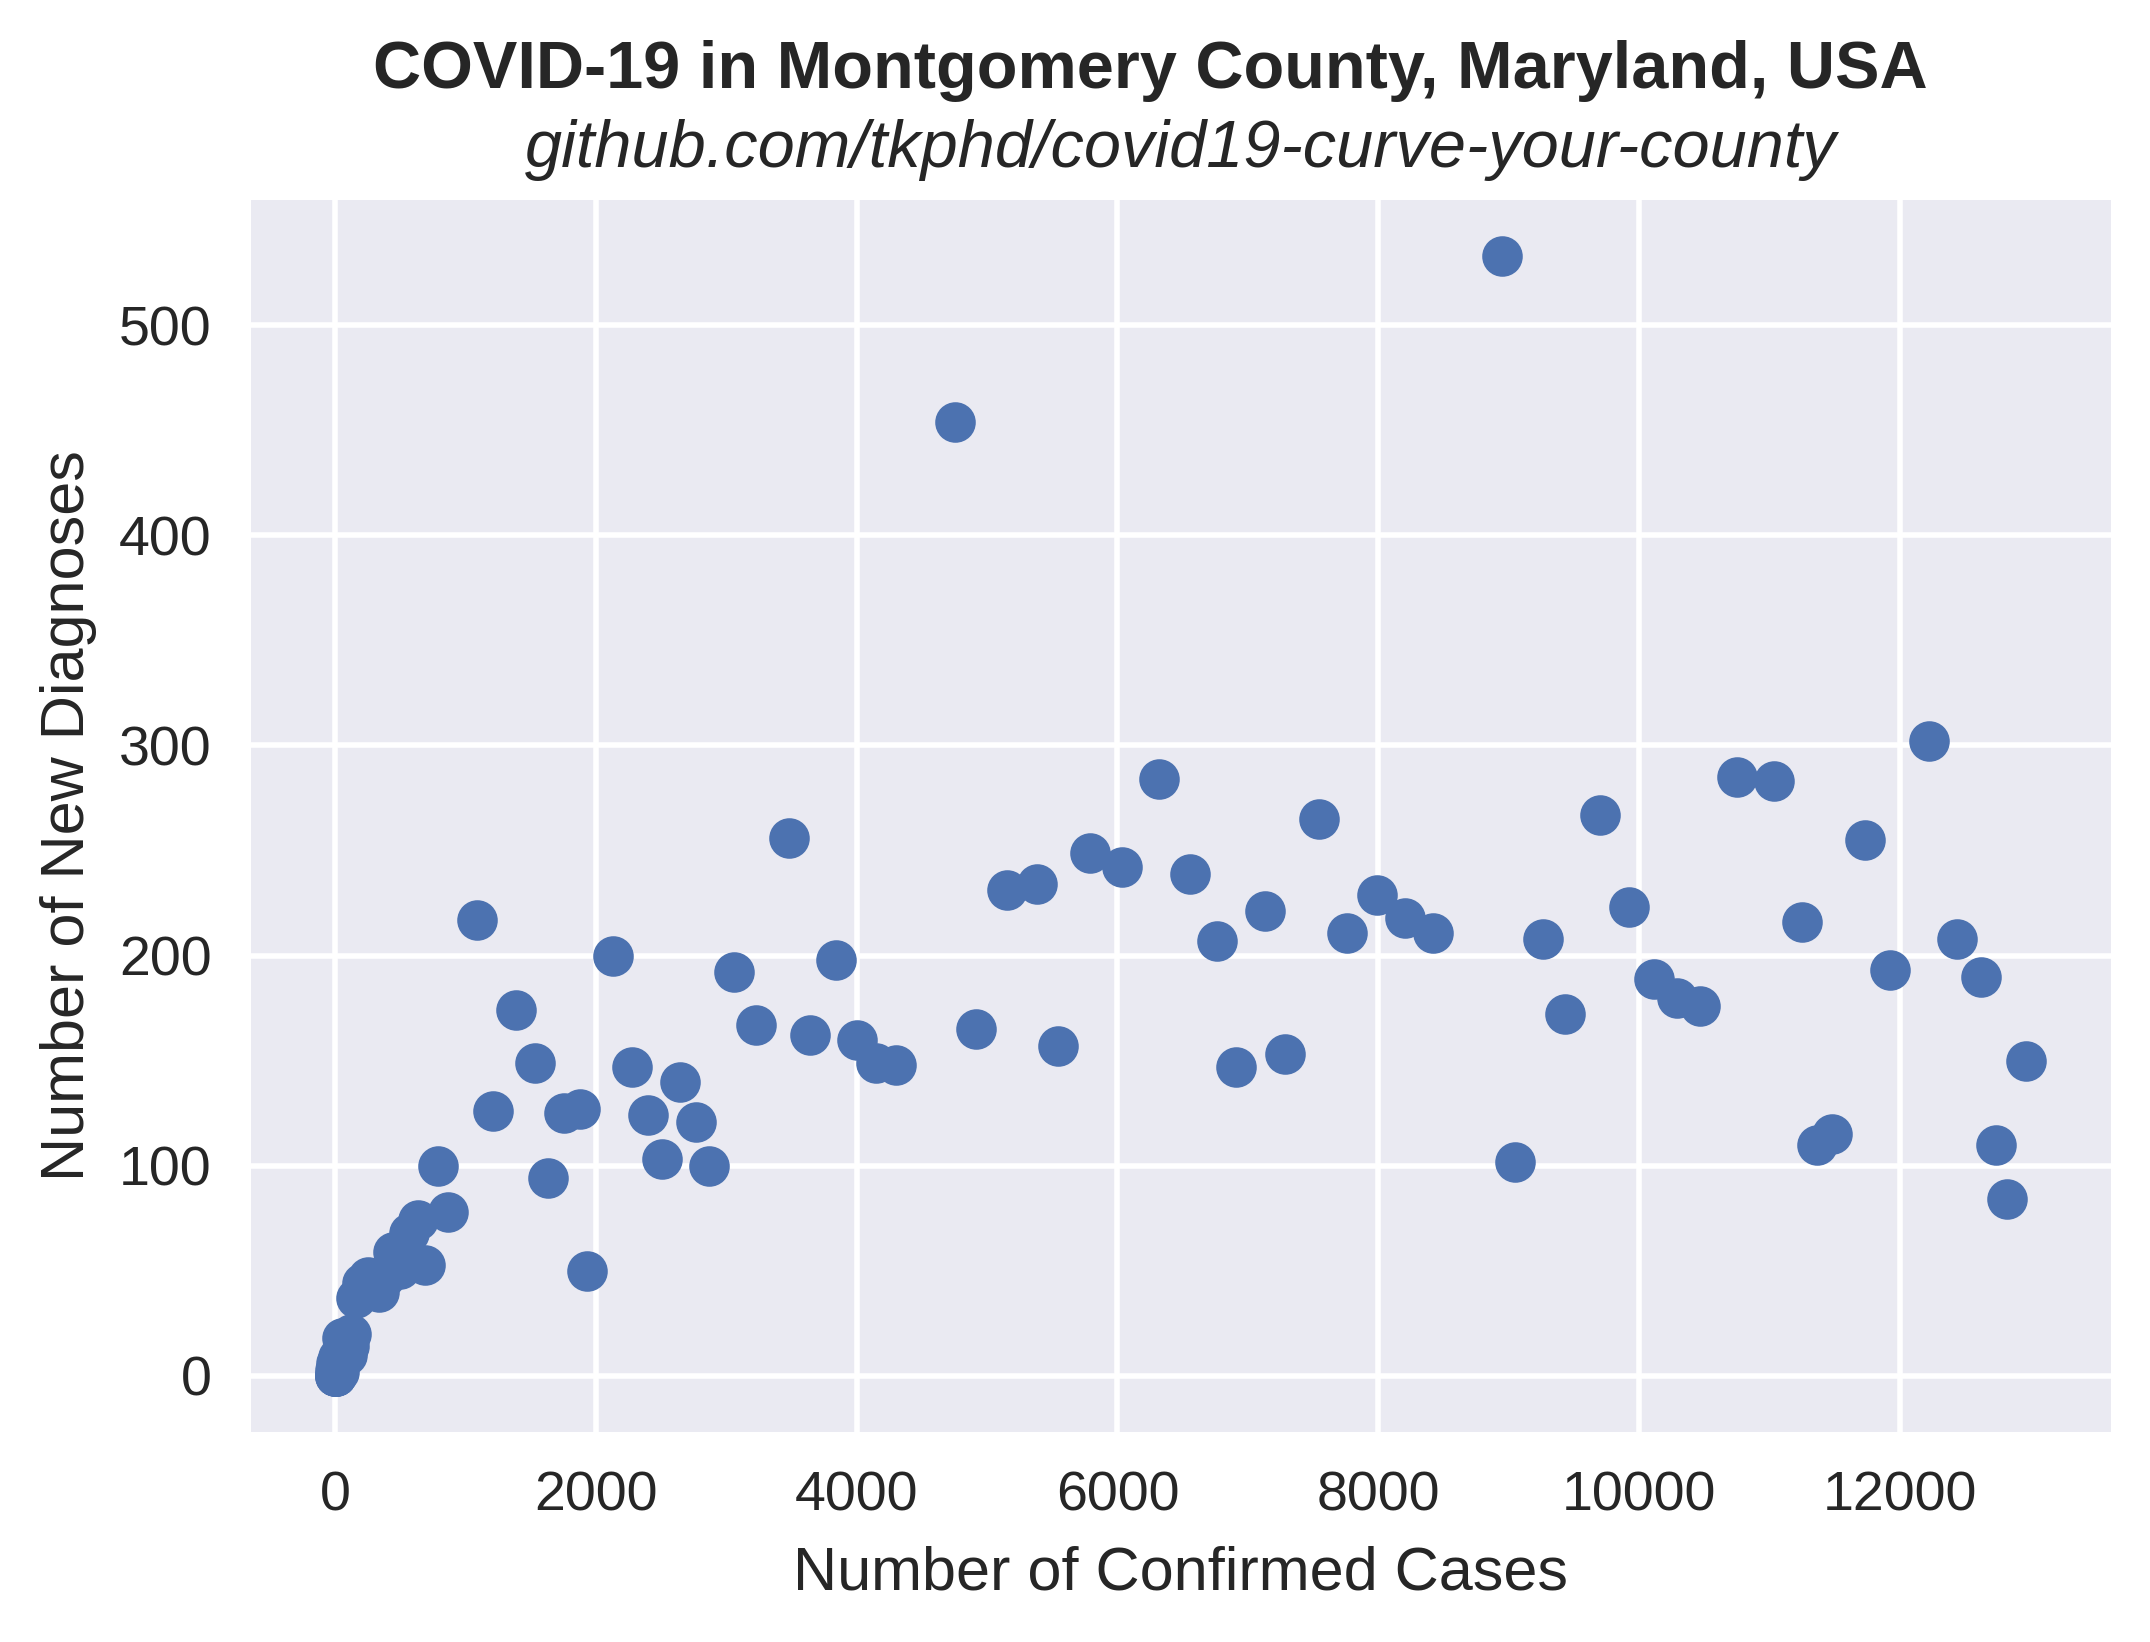
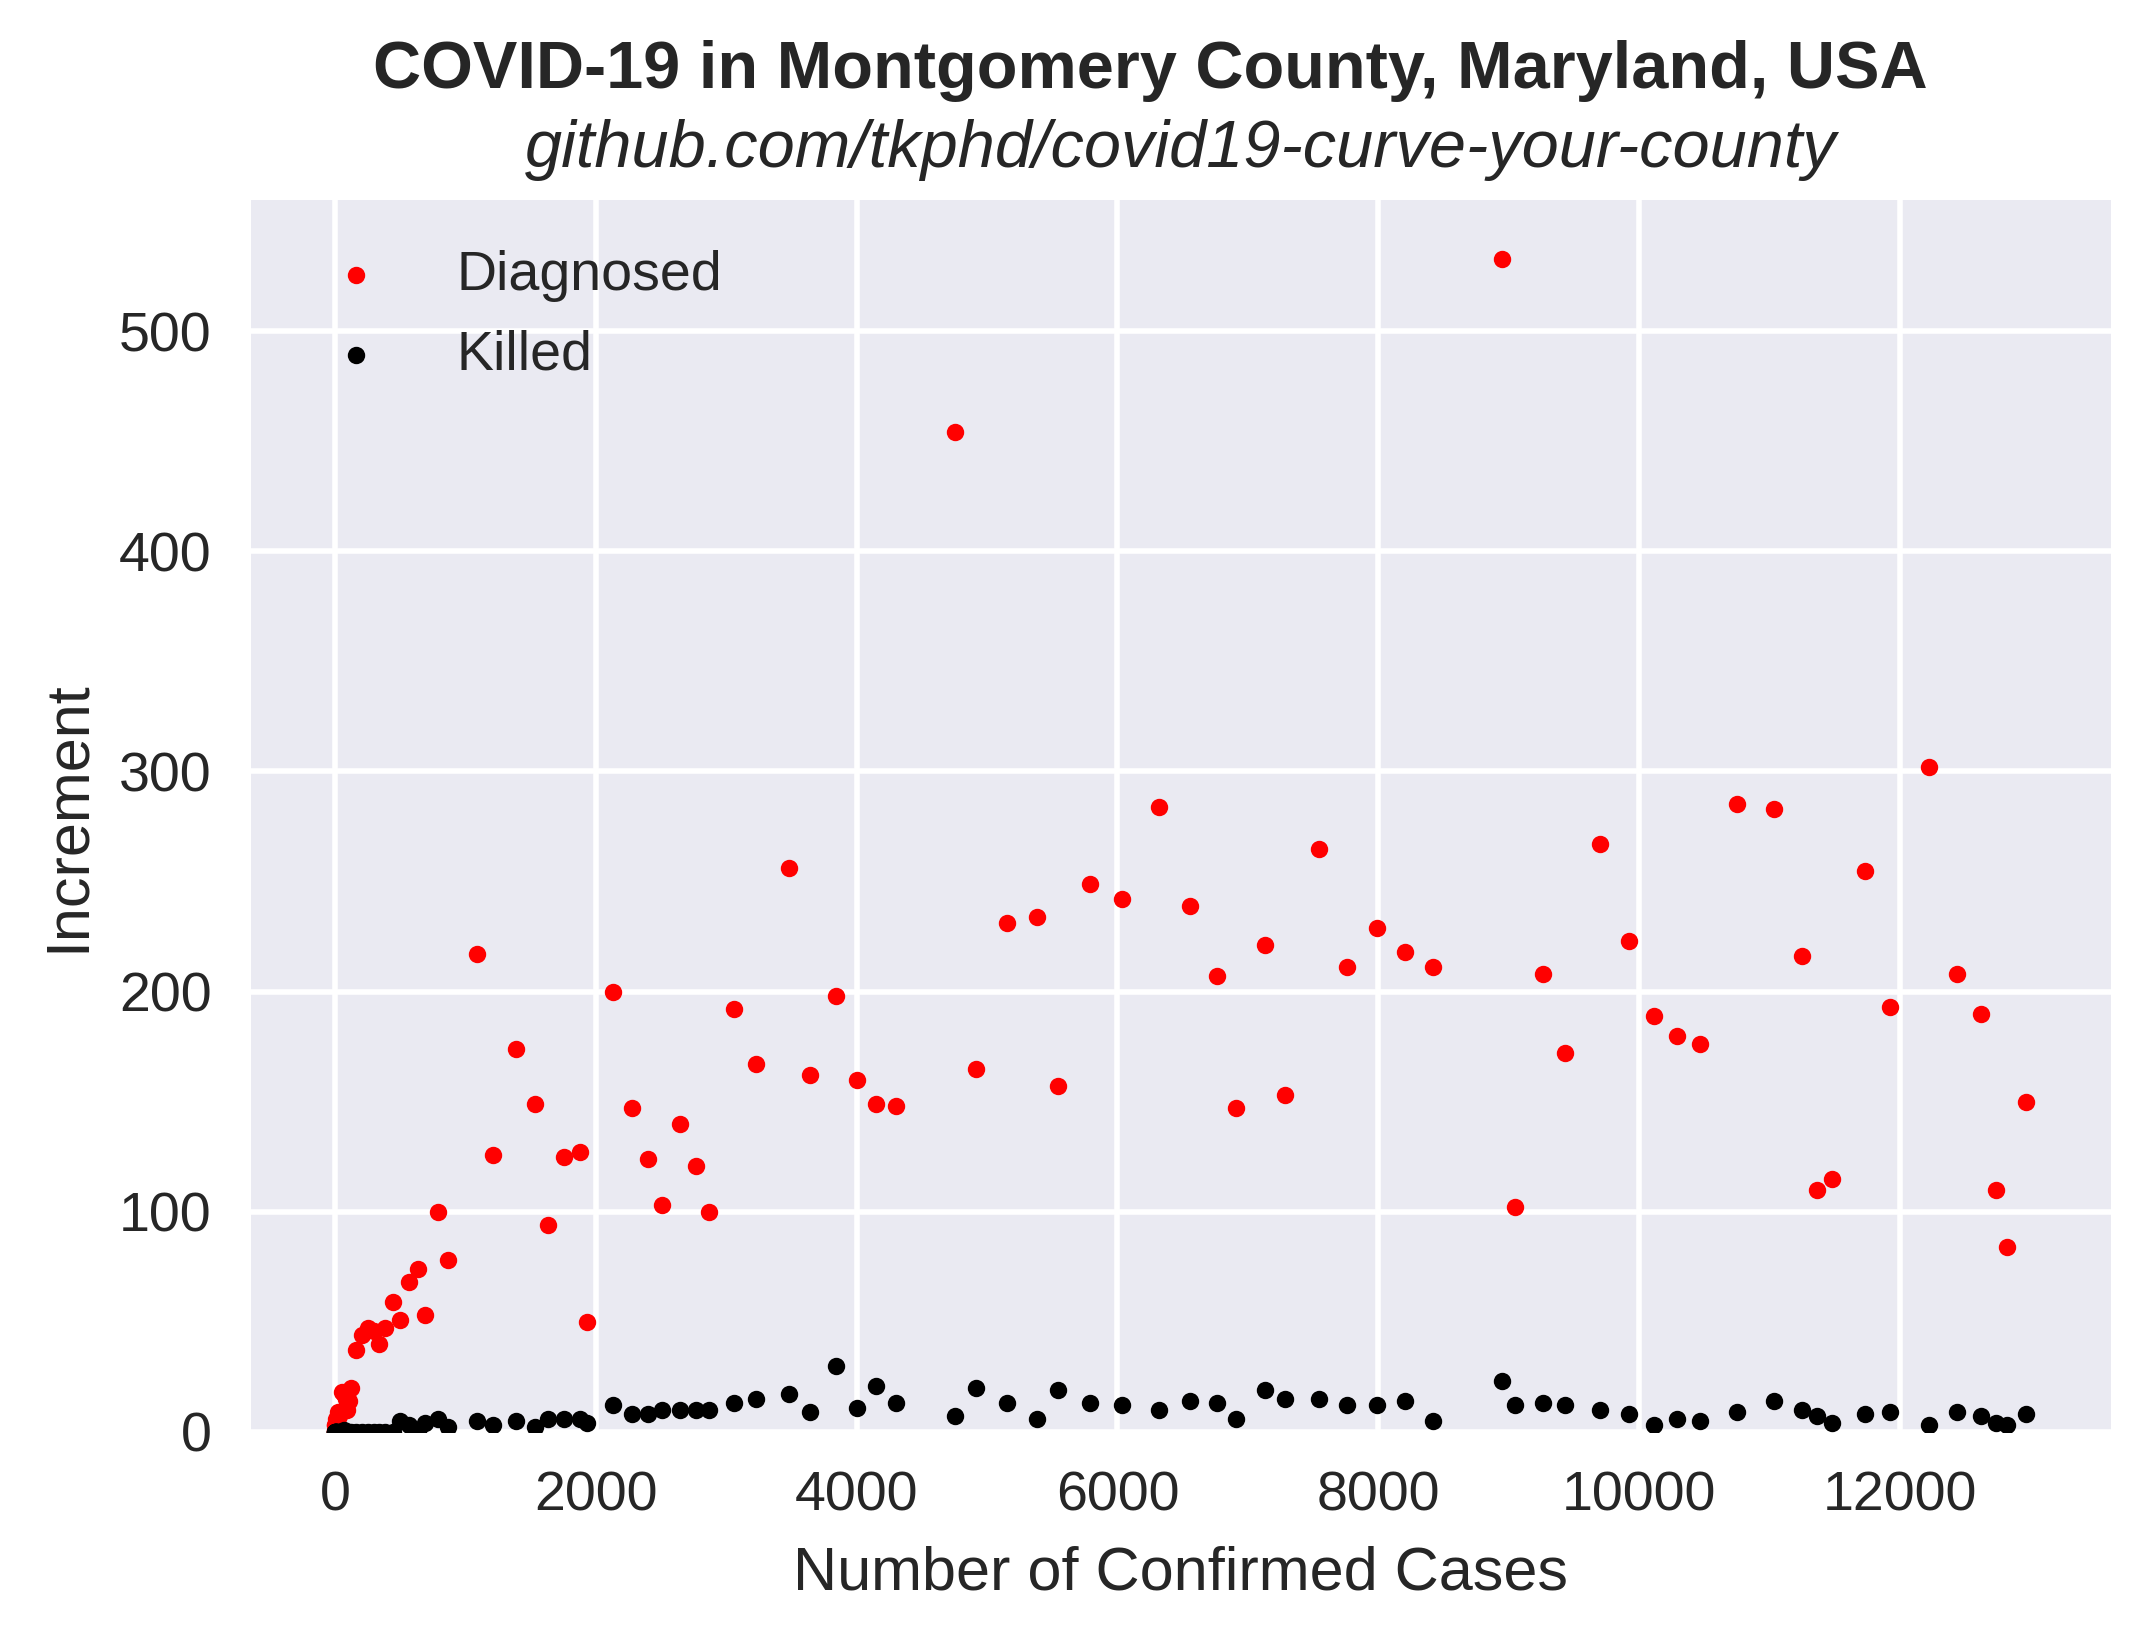
rework increments, include deaths

diff --git a/exponential.py b/exponential.py
@@ -236,30 +236,28 @@ fig = plt.figure(figsize=(6, 4))
 plt.suptitle("COVID-19 in Montgomery County, Maryland, USA", fontweight="bold")
 plt.title("github.com/tkphd/covid19-curve-your-county", style="oblique")
 plt.xlabel("Number of Confirmed Cases")
-plt.ylabel("Number of New Diagnoses")
+plt.ylabel("Increment")
 
-x = np.array(data["diagnosed"])
+key = "diagnosed"
+x = np.array(data[key])
 y = np.array(x)
 
-for i in np.arange(1, len(x), 1):
-    y[i] -= x[i-1]
+for i in np.arange(len(y)-1, 1, -1):
+    y[i] -= y[i-1]
 
-plt.scatter(x, y)
+plt.scatter(x, y, s=8, color=colors[key], label=key.capitalize())
+
+key = "killed"
+y = np.array(data[key])
+
+for i in np.arange(len(y)-1, 1, -1):
+    y[i] -= y[i-1]
+
+plt.scatter(x, y, s=8, color=colors[key], label=key.capitalize())
+
+plt.legend(loc="upper left")
+axes = plt.gca()
+axes.set_ylim(ymin=0)
 plt.savefig("increment.png", dpi=400, bbox_inches="tight")
 plt.close()
 
-fig = plt.figure(figsize=(6, 4))
-plt.suptitle("COVID-19 in Montgomery County, Maryland, USA", fontweight="bold")
-plt.title("github.com/tkphd/covid19-curve-your-county", style="oblique")
-plt.xlabel("Number of Confirmed Cases")
-plt.ylabel("Number of New Deaths")
-
-x = np.array(data["killed"])
-y = np.array(x)
-
-for i in np.arange(1, len(x), 1):
-    y[i] -= x[i-1]
-
-plt.scatter(x, y, )
-plt.savefig("increment-deaths.png", dpi=400, bbox_inches="tight")
-plt.close()
